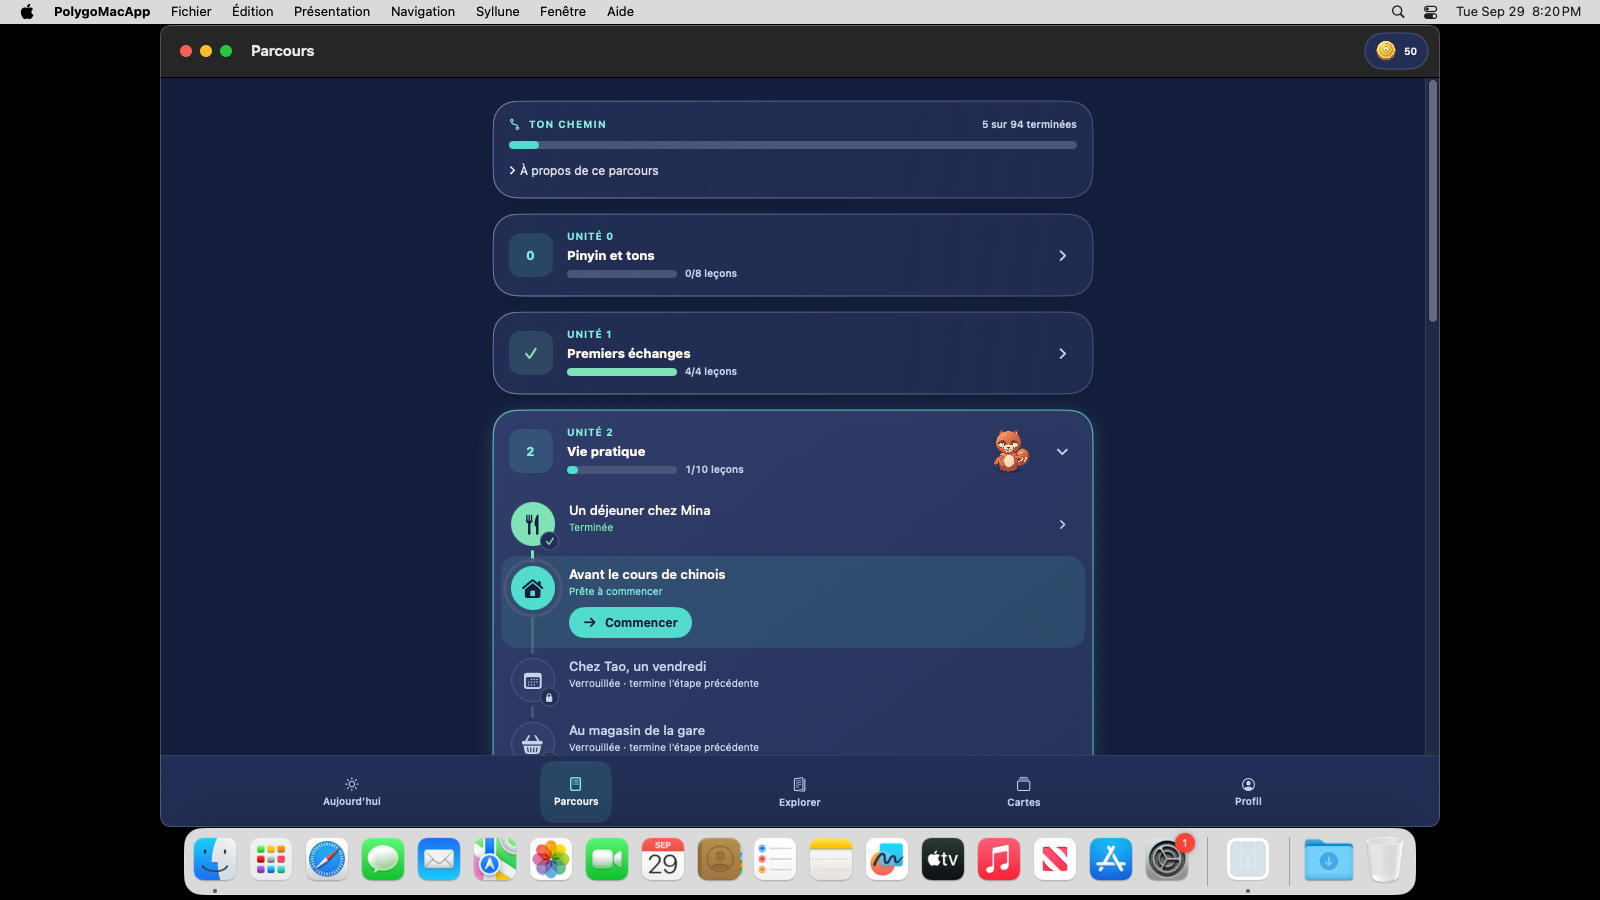
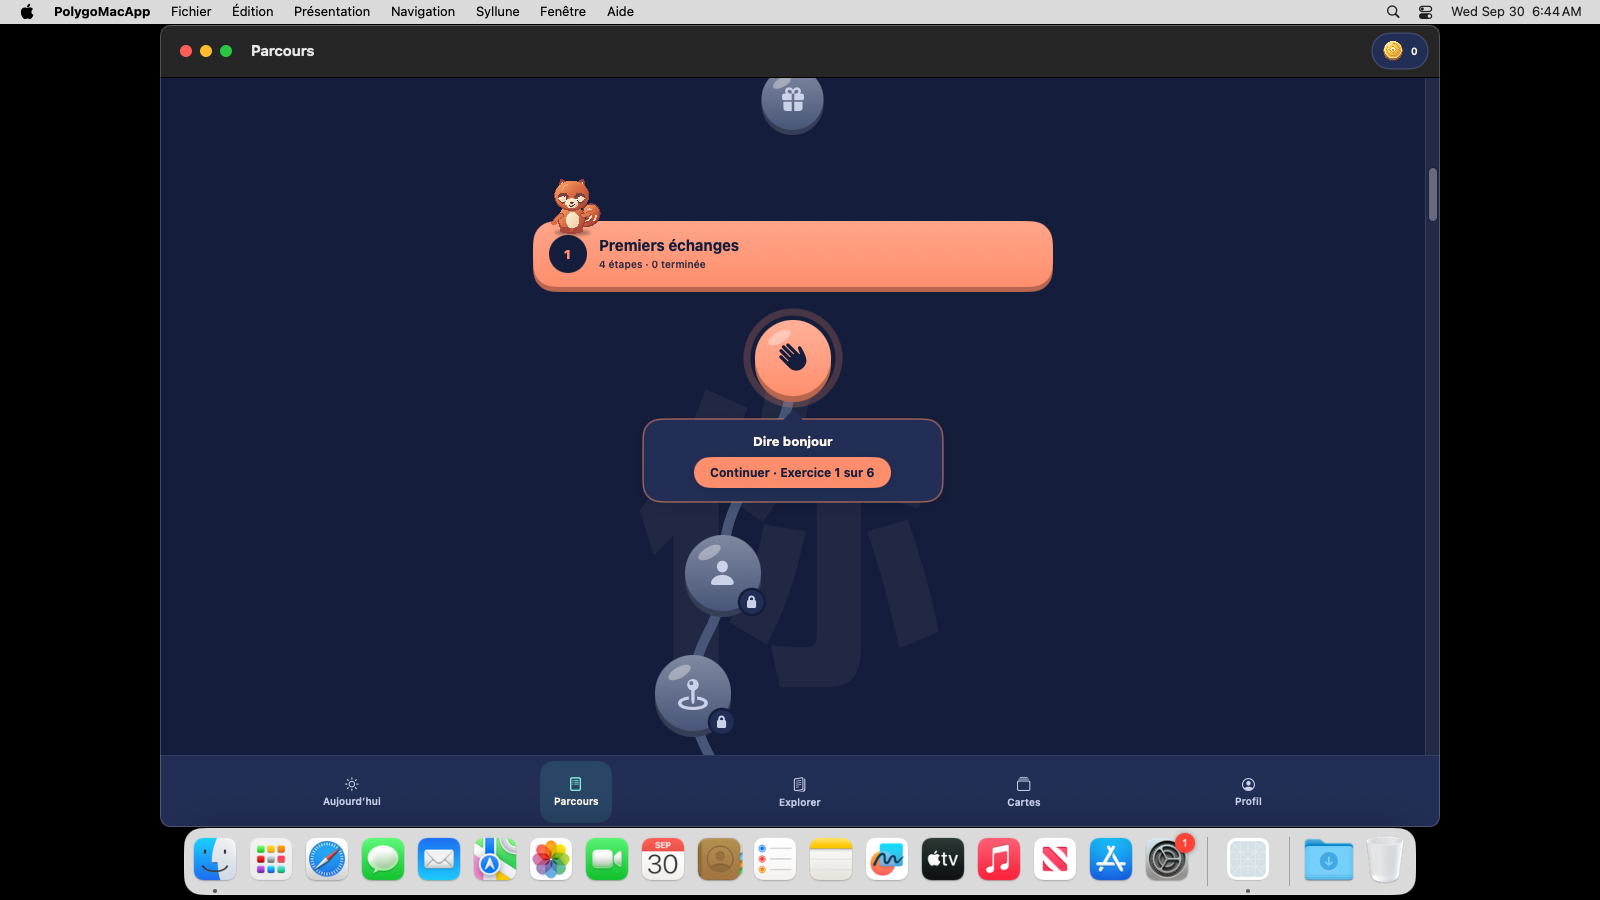
docs: refresh path and dialogue screenshots for the restored map [skip ci]

diff --git a/docs/RELEASE.md b/docs/RELEASE.md
@@ -83,31 +83,35 @@ captures du dépôt en proviennent (iPhone 16 Pro réduit à 603 × 1311, Mac
 | Capture | Dimensions | SHA-256 |
 | --- | --- | --- |
[21 lines of base64/hex data omitted]
 
-Les captures du dialogue, des nouveaux mots et de la lecture L5 montrent la
-leçon en une seule suite d’étapes (apprentissage juste avant les exercices qui
-l’utilisent, pinyin et traduction masqués par défaut) ; elles proviennent du
+Les captures des nouveaux mots et de la lecture L5 montrent la leçon en une
+seule suite d’étapes (apprentissage juste avant les exercices qui l’utilisent,
+pinyin et traduction masqués par défaut) ; elles proviennent du
 [run 36629569835](https://github.com/STOOOKEEE/Polygo/actions/runs/36629569835)
-sur `62b6bc6`. Les captures d’accueil, de parcours (unités repliables, clair
-et sombre) et de pièces après complétion proviennent des runs
+sur `62b6bc6`. Les captures d’accueil proviennent des runs
 [36615123021](https://github.com/STOOOKEEE/Polygo/actions/runs/36615123021)
-sur `e85508f` (accueil iPhone) et
+sur `e85508f` (iPhone) et
 [36625246917](https://github.com/STOOOKEEE/Polygo/actions/runs/36625246917)
-sur `7500d23` (les autres).
+sur `7500d23` (Mac). Les captures du parcours (carte à bulles, chemin sinueux,
+bannières d’unité, clair et sombre), des pièces après complétion et du
+dialogue (une réplique touchée révèle son pinyin et sa traduction)
+proviennent du
+[run 36679107146](https://github.com/STOOOKEEE/Polygo/actions/runs/36679107146)
+sur `9ba99b3`.
 Les captures du retour avec Tavi (barre découpée en phases, série, réplique) et
 du bilan « Mots appris » proviennent du
 [run 36654360774](https://github.com/STOOOKEEE/Polygo/actions/runs/36654360774)

diff --git a/README.md b/README.md
@@ -124,10 +124,11 @@ nécessaire au bundle commun et par leur pinyin, écrit mot par mot comme partou
 Tavi, le panda roux original, accompagne l’accueil, les encouragements et les
 célébrations. Tous les onglets partagent une même charte (fond crème ou indigo,
 cartes douces, jade pour l’action principale, or pour les récompenses). Le
-parcours regroupe les leçons en cartes d’unité repliables avec leur progression ;
-chaque leçon garde son titre visible et une icône adaptée : les révisions portent
-des flèches circulaires, les défis de fin d’unité une couronne et les leçons du
-module 0 une onde sonore. Les apparences Système, Clair et Sombre restent disponibles,
+parcours reste une carte de jeu : bannières d’unité colorées, piste sinueuse,
+nœuds en relief et bulle « Commencer / Continuer » sur l’étape actuelle. Chaque
+leçon a une icône adaptée : les révisions portent des flèches circulaires, les
+défis de fin d’unité une couronne et les leçons du module 0 une onde sonore.
+Les apparences Système, Clair et Sombre restent disponibles,
 ainsi que Réduire les animations.
 
 La même barre basse dessert **Aujourd’hui, Parcours, Explorer, Cartes et Profil**
